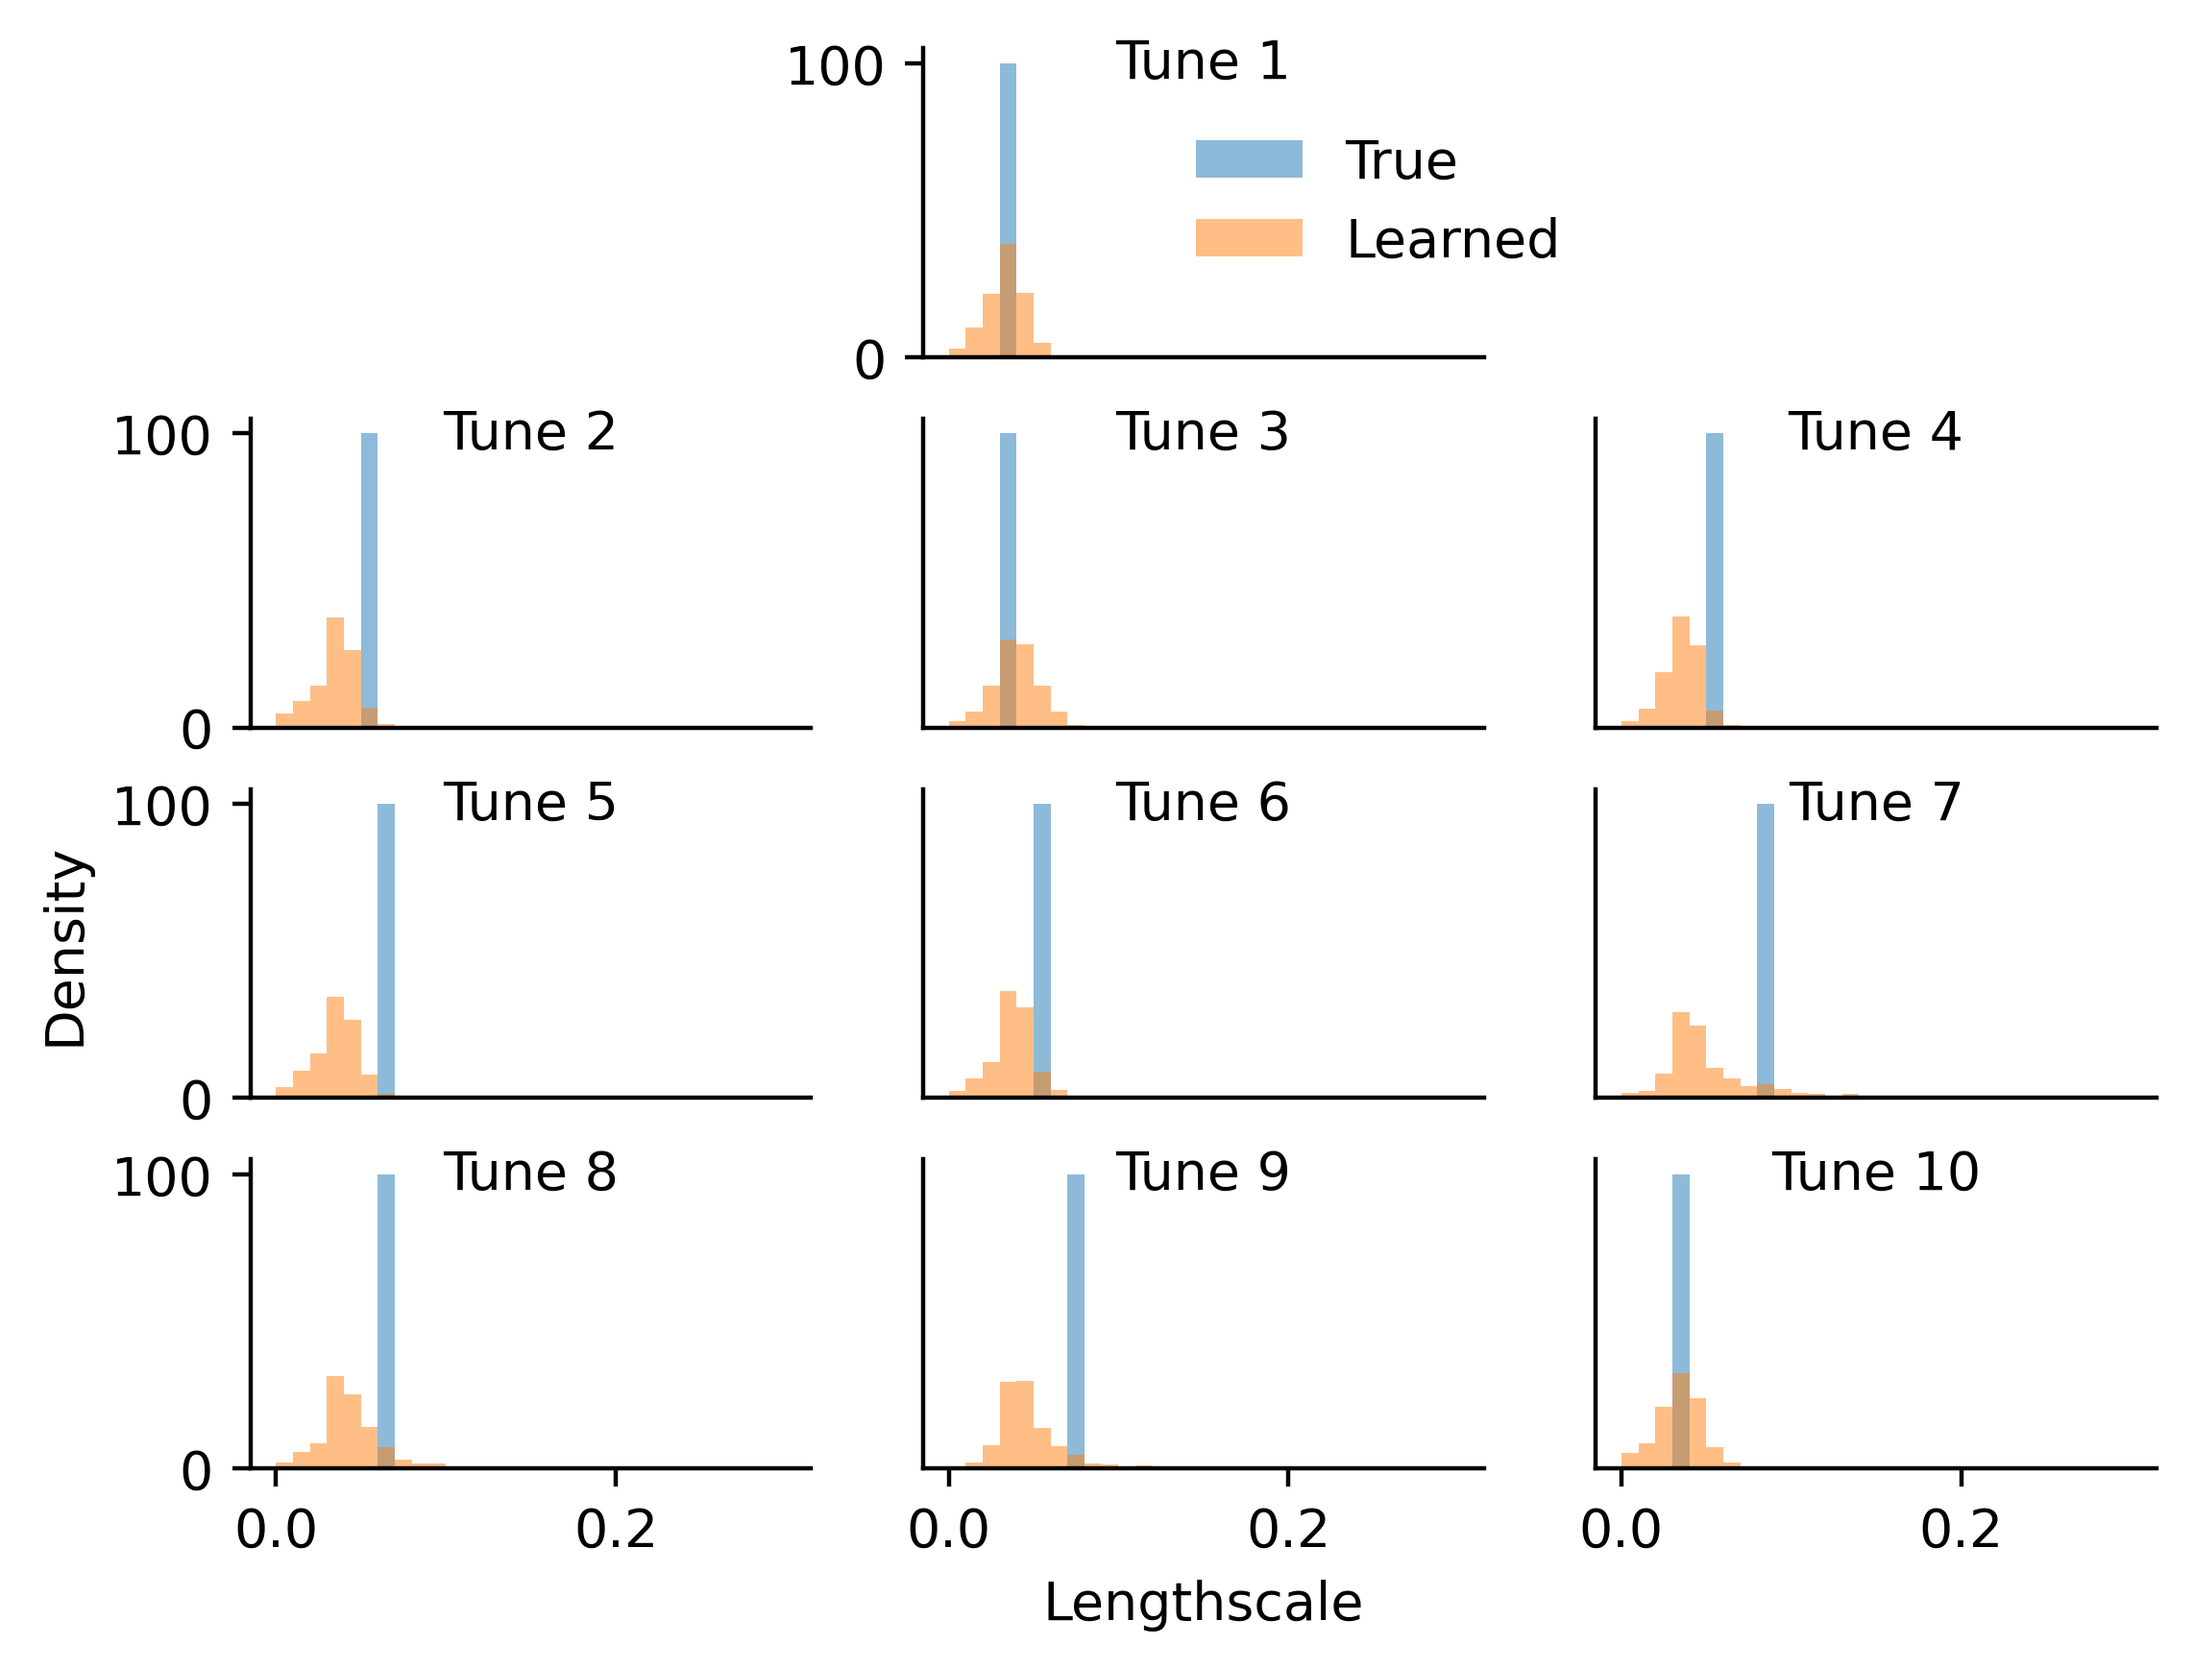
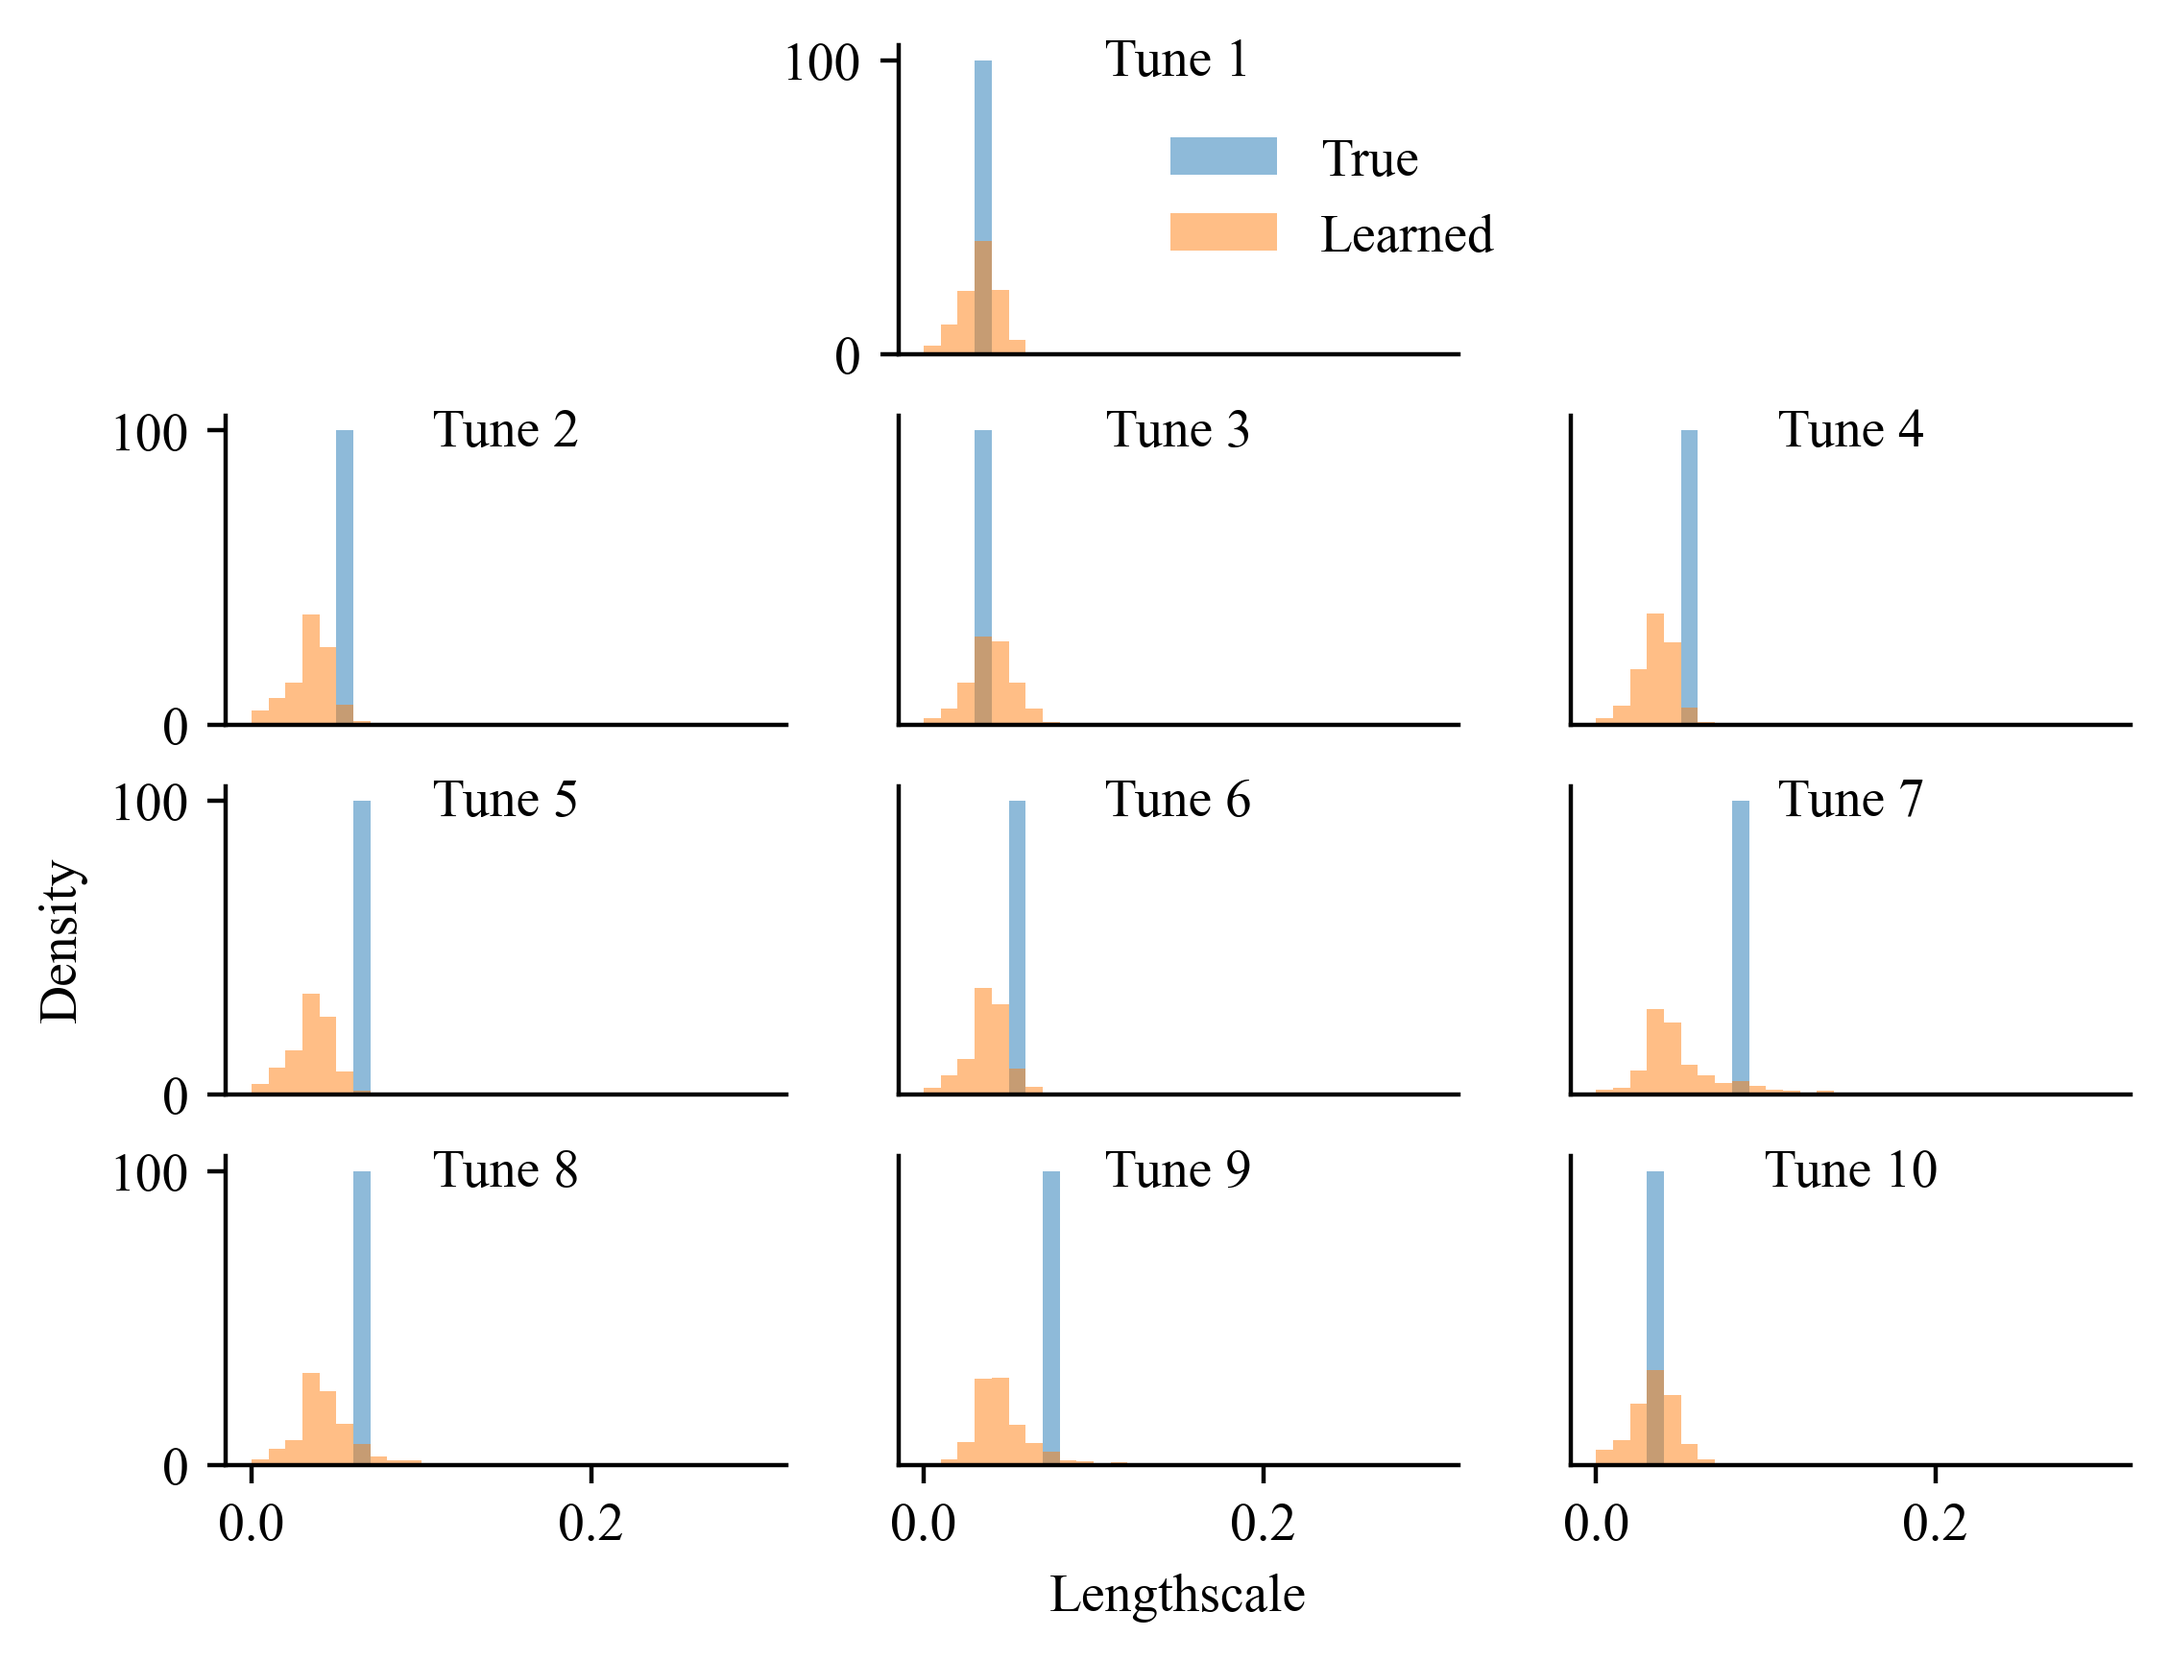
Change to font in prior quality plot.

diff --git a/plot_prior_fit.py b/plot_prior_fit.py
@@ -3,6 +3,7 @@ import matplotlib.pyplot as plt
 import json
 import numpy as np
 import sys
+plt.rcParams["font.family"] = "Times New Roman"
 
 sys.path.append('mcmc/')
 
@@ -69,7 +70,7 @@ col_dict = {
 
 def plot_prior_fit(hyp_dict, bins, X, col_dict, true_eta, learned_eta):
 
-    fig, ax = plt.subplots(figsize=(6,4))
+    fig, ax = plt.subplots(figsize=(0.6*6,0.6*4))
 
     ax.hist(hyp_dict['cand_vals'], density=True, color=col_dict['Learned'],
             bins=bins, alpha=0.5);
